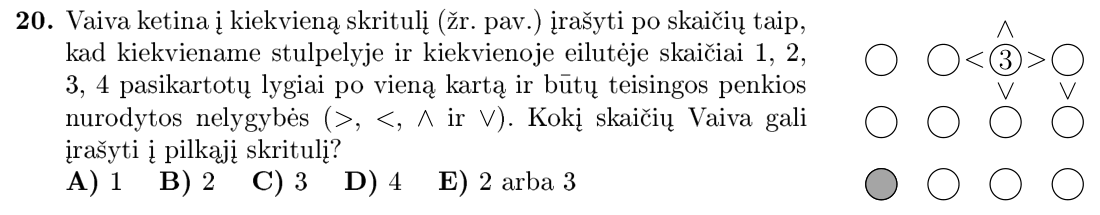
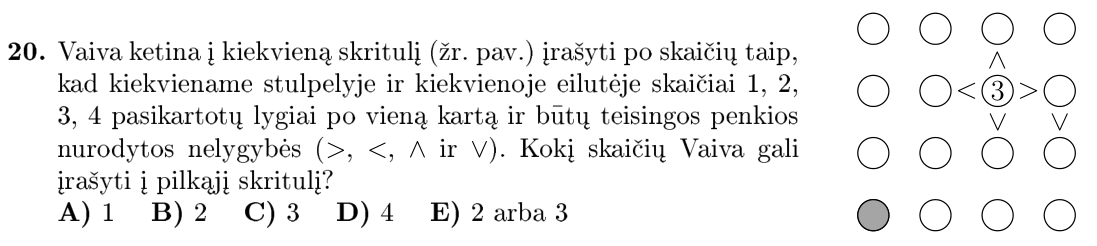
Loop 230: 2024-20 shows its whole 4x4 grid again
The grid's top row sits beside Q19's options, so the layout rule gave it
to Q19 and the figure showed 3 rows. MANUAL entries can now carry masks;
2024-20 is cut by hand. The kid solution already reasoned on 4 rows.
FIGS v13.

diff --git a/sw.js b/sw.js
@@ -3,7 +3,7 @@
    the next load, offline still opens the app. Figures (png): cache-first,
    filled on demand → a paper the kid has opened once works offline. */
 const SHELL = "kengura-shell-v2";
-const FIGS = "kengura-figs-v12";   // bump whenever a figure PNG is replaced (cache-first!)
+const FIGS = "kengura-figs-v13";   // bump whenever a figure PNG is replaced (cache-first!)
 const SHELL_URLS = ["./", "kengura.html", "kengura-archive.js", "manifest.webmanifest", "icon.svg"];
 
 self.addEventListener("install", e => {

diff --git a/_recrop.py b/_recrop.py
@@ -100,14 +100,17 @@ def locate(doc, n, old):
 # but belong to the previous question (checked by eye)
 FORCE_MASK = {('2017', 14): {'9818192'}, ('2010', 12): {'20', '+', '10'}}
 
-MANUAL = {  # (year, num): (page index, clip) – picture spread over neighbouring questions
+MANUAL = {  # (year, num): (page index, clip[, masks]) – picture spread over neighbouring questions
     ('2003', 5): (4, (71, 308, 469, 439)),
+    # the grid's top row sits beside Q19's options (its centre is above the header)
+    ('2024', 20): (1, (424, 286, 830, 377), [(420, 270, 734, 292)]),
 }
 
 def crop(pdf, n, old, year=None):
     crop.last_masks = []
     if (year, n) in MANUAL:
-        pno, r = MANUAL[(year, n)]
+        pno, r, *mk = MANUAL[(year, n)]
+        crop.last_masks = [fitz.Rect(*m) for m in (mk[0] if mk else [])]
         return fitz.open(os.path.join(HERE, pdf))[pno], fitz.Rect(*r)
     doc = fitz.open(os.path.join(HERE, pdf))
     loc = locate(doc, n, old)
